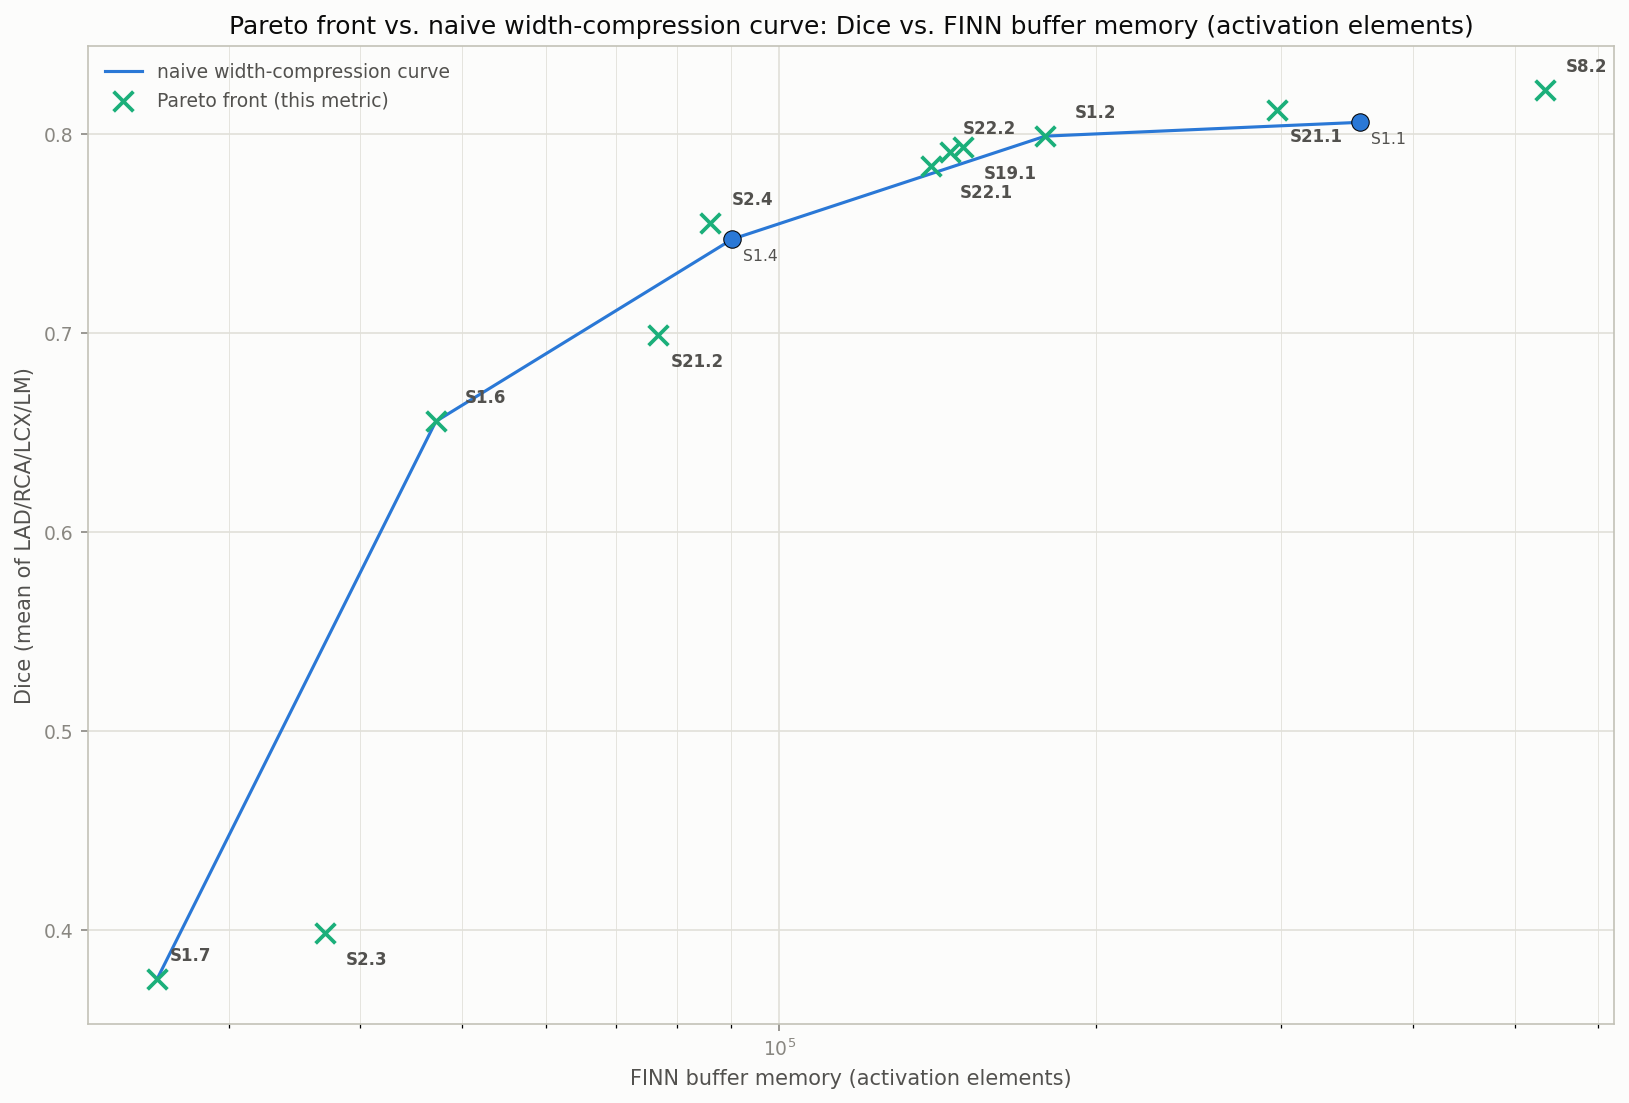
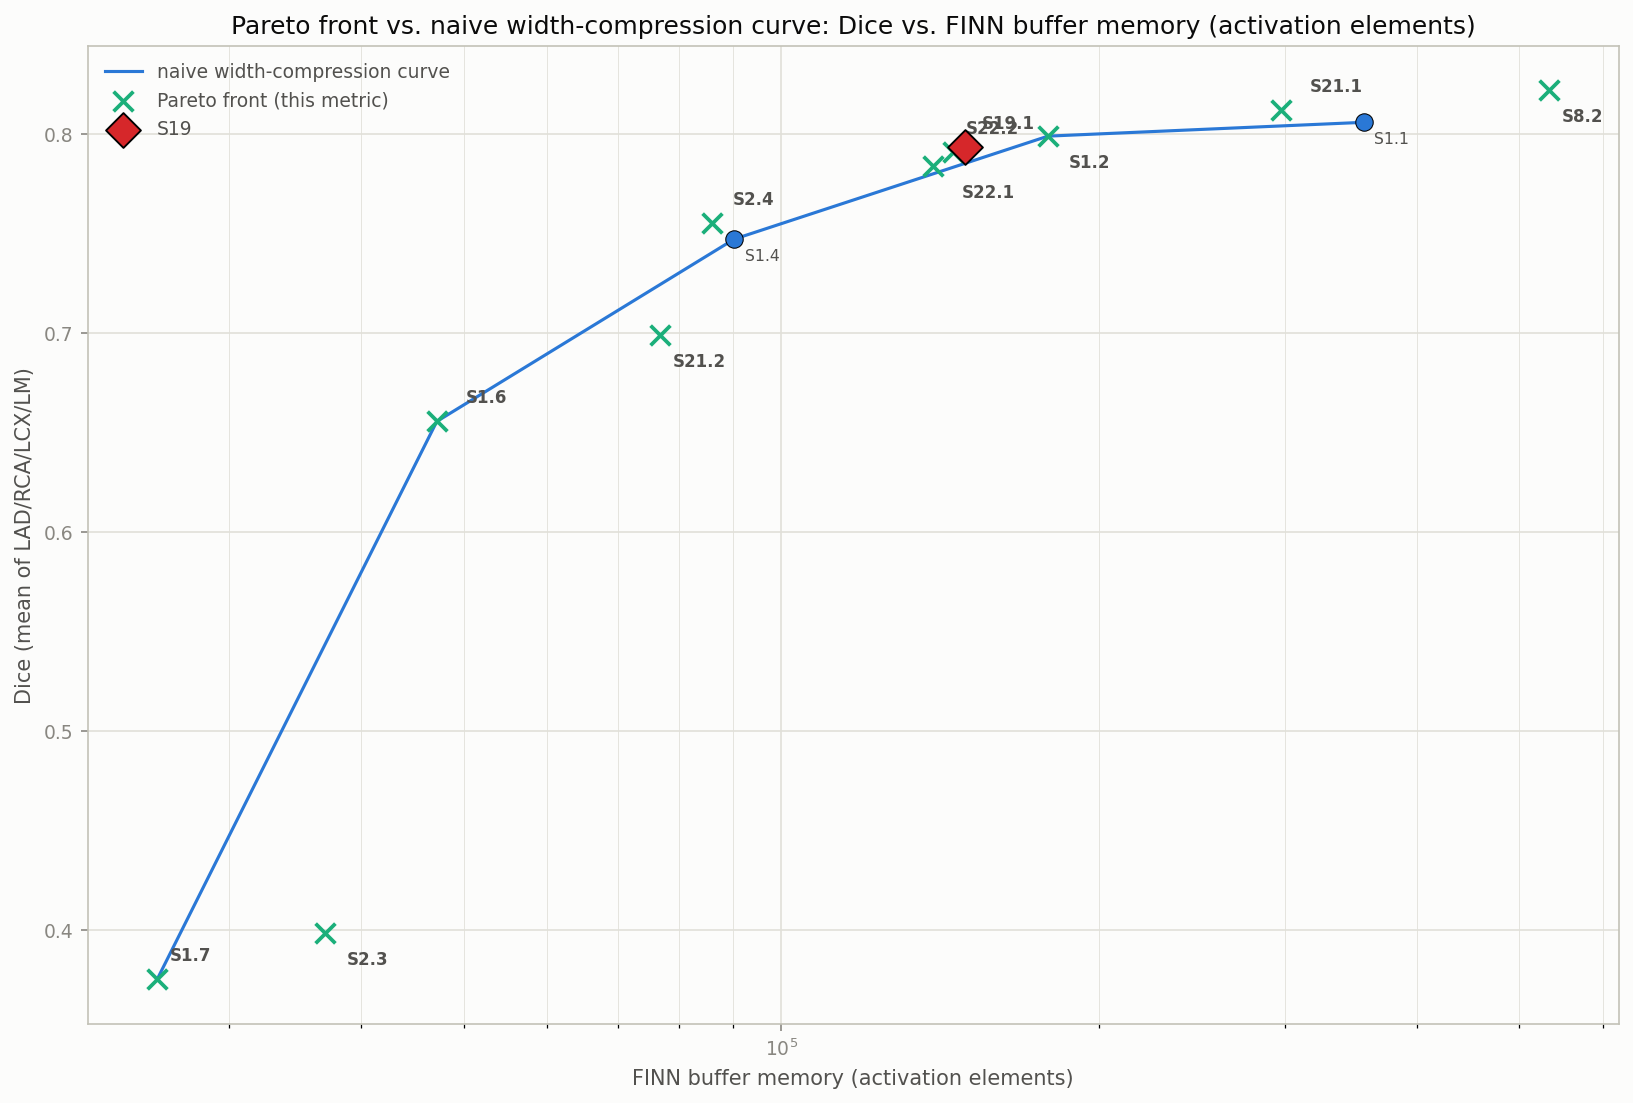
Final plots: always mark S19 as a diamond in all 3 figures, even when it's on the front
Reverts the "skip the diamond if already on this figure's own front" logic
added a few commits back -- HIGHLIGHTED_CONFIGS (now just S19) is drawn
unconditionally in every figure again, so it stays visually identifiable
as the headline model regardless of whether the FINN-legal-only front
happens to include it on a given metric. front_configs (now unused) removed.

diff --git a/compression/plot_final_width_comparison.py b/compression/plot_final_width_comparison.py
@@ -23,12 +23,9 @@ line -- unlike the naive curve, its points come from entirely different
 architectures with no shared axis between them (channel width), so a
 connecting line would visually imply a continuous tradeoff that doesn't
 exist between e.g. S9.4 and S13.1. Front markers are an X. Configs in
-HIGHLIGHTED_CONFIGS (currently S19 and S5.3) get their own colored diamond
-drawn on top, but ONLY when they're not already part of THAT figure's own
-Pareto front -- the whole point of the diamond is to force a look at a
-config the front left out; a config that genuinely IS on the front already
-gets a normal X like everyone else, not a redundant second marker on top
-of itself.
+HIGHLIGHTED_CONFIGS (currently just S19) always get their own colored
+diamond, drawn on top of every other layer in every figure, regardless of
+whether they're actually on that figure's own Pareto front.
 
 Only rows with a compression/config_abbreviations.csv entry are
 considered (excludes pruning-grid rows, which live in results_pruning.csv
@@ -160,7 +157,6 @@ def _plot_metric(named: pd.DataFrame, naive: pd.DataFrame, pareto_eligible: pd.D
 
     naive_sorted = naive.dropna(subset=[x_col, "dice"]).sort_values(x_col)
     front = pareto_front(pareto_eligible, x_col)
-    front_configs = set(front["config_name"]) if not front.empty else set()
     # A naive point that's ALSO Pareto-optimal (e.g. the naive curve's own
     # cheapest/most-efficient points often are) gets its marker+label drawn
     # once below, from the Pareto loop -- skip it here so it isn't
@@ -176,14 +172,12 @@ def _plot_metric(named: pd.DataFrame, naive: pd.DataFrame, pareto_eligible: pd.D
         ax.annotate(row["abbrev"], (row[x_col], row["dice"]), fontsize=7.5, color=SECONDARY_INK,
                    textcoords="offset points", xytext=(5, -10))
 
-    # Highlighted configs (HIGHLIGHTED_CONFIGS) get their own colored
-    # diamond, on top of every other layer -- but only for configs that
-    # actually NEED forcing, i.e. aren't already on this figure's own
-    # Pareto front. A highlighted config that's genuinely Pareto-optimal on
-    # this metric has nothing to force -- it already gets a normal X marker
-    # below, and drawing a redundant diamond on top of its own X would just
-    # be double-marking the same point.
-    diamond_configs = {c: v for c, v in HIGHLIGHTED_CONFIGS.items() if c not in front_configs}
+    # Highlighted configs (HIGHLIGHTED_CONFIGS) always get their own colored
+    # diamond, on top of every other layer, in every figure -- regardless of
+    # whether they're actually on this figure's own Pareto front. Excluded
+    # from the front's own X-marker set unconditionally so they're never
+    # drawn twice.
+    diamond_configs = dict(HIGHLIGHTED_CONFIGS)
     front_other = front[~front["config_name"].isin(diamond_configs)] if not front.empty else front
     if not front_other.empty:
         # Lowercase "x" -- matplotlib's thin, unfilled line-cross marker
